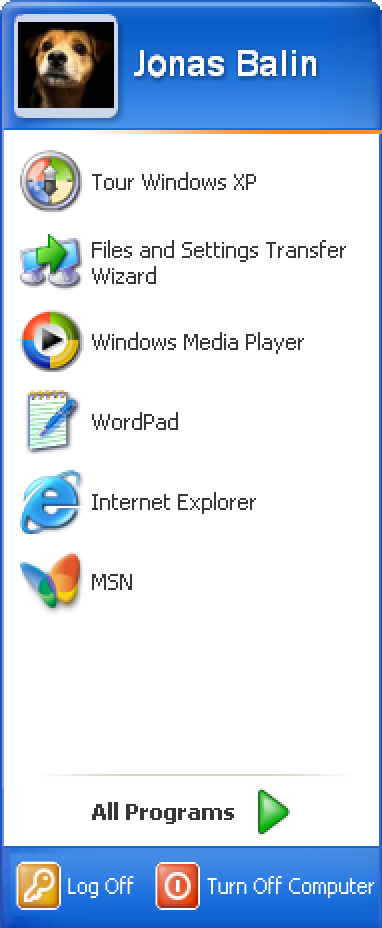
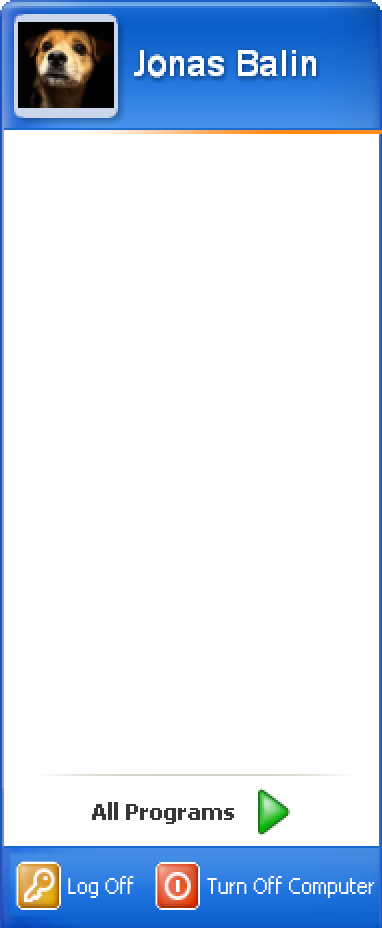
start menu style changes

diff --git a/src/components/taskbar/taskbar.js b/src/components/taskbar/taskbar.js
@@ -10,21 +10,25 @@ import StartMenu from "./startMenu";
 
 export default function Taskbar(props) {
   const [time, setTime] = useState();
-  const [startMenuVisibility, setstartMenuVisibility] = useState({display:"none"})
-  const [startMenuClicked, setStartMenuClicked] = useState(false)
-  const [taskbarApps, setTaskbarApps] = useState(props.openApps)
-  const selectedAppStyle = {filter:"brightness:(200%)"}
-  const deselectedAppStyle = {filter:"brighness:(50%)"}
+  const [startMenuVisibility, setstartMenuVisibility] = useState({
+    display: "none",
+  });
+  const [startMenuClicked, setStartMenuClicked] = useState(false);
+  const [taskbarApps, setTaskbarApps] = useState(props.openApps);
 
   useEffect(() => {
     setTaskbarApps(props.openApps);
-}, [props.openApps])
+  }, [props.openApps]);
 
   // Updating time in taskbar
   useEffect(() => {
     const timer = setInterval(() => {
       // padStart on minutes to add leading 0
-      setTime(new Date().getHours().toString().padStart(2, '0') + ":" + new Date().getMinutes().toString().padStart(2, '0'));
+      setTime(
+        new Date().getHours().toString().padStart(2, "0") +
+          ":" +
+          new Date().getMinutes().toString().padStart(2, "0")
+      );
     }, 1000);
 
     return () => {
@@ -32,14 +36,13 @@ export default function Taskbar(props) {
     };
   }, []);
 
-
   const taskbarAppClick = (app) => {
-    props.summonApplication(app)
-  }
+    props.summonApplication(app);
+  };
 
   // Hides menu if clicked outside of start button & menu
   const hideStartMenu = (e) => {
-    if(e.target.id != "start-menu-button"){
+    if (e.target.id != "start-menu-button") {
       setstartMenuVisibility({ display: "none" });
       setStartMenuClicked(false);
     }
@@ -47,24 +50,26 @@ export default function Taskbar(props) {
 
   const showStartMenu = () => {
     setstartMenuVisibility();
-    setStartMenuClicked(true)
-  }
+    setStartMenuClicked(true);
+  };
 
   const pressedStartButton = () => {
-    if(startMenuClicked){
-      return startButtonPressed
+    if (startMenuClicked) {
+      return startButtonPressed;
     } else {
-      return startButton
+      return startButton;
     }
-
-  }
-  
-
-
+  };
 
   return (
     <div className="taskbar noselect">
-    <StartMenu style={startMenuVisibility} outsideClick={startMenuClicked} hideMenu={hideStartMenu}/>
+      <StartMenu
+        style={startMenuVisibility}
+        outsideClick={startMenuClicked}
+        hideMenu={hideStartMenu}
+        appList={props.appList}
+        launchApplication={props.launchApplication}
+      />
 
       <img className="start-bar" src={taskBar}></img>
       <img
@@ -73,21 +78,27 @@ export default function Taskbar(props) {
         src={pressedStartButton()}
         // Refactor these icon changes. Spaghetti right now.
         onMouseEnter={(e) => (e.currentTarget.src = startButtonHover)}
-        onMouseDownCapture={(e) => showStartMenu()}
+        onMouseDownCapture={() => showStartMenu()}
       ></img>
-      
+
       <div className="taskbar-right">
-        
         <div id="current-time">{time}</div>
         <img className="start-bar-right" src={taskBarRight}></img>
       </div>
 
       <div className="taskbar-middle">
         {taskbarApps.map((app, index) => (
-          <div key={index}
-          className={"taskbar-app"}
-          onClick={(e) => taskbarAppClick(app)}>
-            <TaskbarApps icon={app.icon} title={app.title} id={app.id} isSelected={app.isSelected}/>
+          <div
+            key={index}
+            className={"taskbar-app"}
+            onClick={() => taskbarAppClick(app)}
+          >
+            <TaskbarApps
+              icon={app.icon}
+              title={app.title}
+              id={app.id}
+              isSelected={app.isSelected}
+            />
           </div>
         ))}
       </div>

diff --git a/src/components/taskbar/startMenu.js b/src/components/taskbar/startMenu.js
@@ -26,6 +26,10 @@ export default function StartMenu(props) {
   }
   };
 
+  const handleAppClick = (app) => {
+    props.launchApplication(app)
+  }
+
   return (
     <OutsideAlerter
       enabled={props.outsideClick}
@@ -37,10 +41,17 @@ export default function StartMenu(props) {
             src={require("../../images/desktop-start-menu-compact.png")}
           ></img>
 
-          <div className="start-menu-button start-menu-app a01"></div>
-          <div className="start-menu-button start-menu-app a02"></div>
-          <div className="start-menu-button start-menu-app a03"></div>
-          <div className="start-menu-button start-menu-app a04"></div>
+          {props.appList.map((app, index) => (
+            <div
+              key={app.id}
+              className={"start-menu-button start-menu-app"}
+              style={{ bottom: 482 - 54 * index }}
+              onClick={(event) => handleAppClick(event, app[1], app)}
+            >
+              <img className="start-menu-app-icon" src={app.icon} />
+              <p className="start-menu-app-title">{app.title}</p>
+            </div>
+          ))}
 
           <div className="start-menu-button log-off"></div>
           <div
@@ -60,11 +71,11 @@ export default function StartMenu(props) {
                 backgroundColor: "#5a7edc",
               }}
             >
-              <img src={XPShutDownBackground} style={centeredStyle}/>
+              <img src={XPShutDownBackground} style={centeredStyle} />
             </div>
           )}
         </div>
       }
-    ></OutsideAlerter>
+    />
   );
 }

diff --git a/src/components/desktop.js b/src/components/desktop.js
@@ -59,6 +59,8 @@ export default function Desktop() {
 
   // Function to launch given application within AppWindow component
   const launchApplication = (app) => {
+    console.log("launch")
+    console.log(app)
     return (
       <AppWindow
         passZIndex={passZIndex}
@@ -201,16 +203,17 @@ export default function Desktop() {
           </div>
         ))}
         {openApps.map((app) => (
-          <div key={app.id}
-          // style={{... app.isSelected ? {filter:"grayscale(0%)", zIndex:{zIndex}} : {filter:"grayscale(70%)"}}} Commented out due to creating div height/width, exploring alternatives
-          >{launchApplication(app)}</div>
+          <div key={app.id}>{launchApplication(app)}</div>
         ))}
       </div>
       <div className="desktop-frontlayer">
         <Taskbar
           className="taskbar"
           openApps={openApps}
-          summonApplication={summonApplication}/>
+          appList={initialAppStates}
+          launchApplication={handleClick}
+          summonApplication={summonApplication}
+        />
       </div>
     </div>
   );

diff --git a/src/components/taskbar/startMenu.css b/src/components/taskbar/startMenu.css
@@ -11,11 +11,8 @@
 }
 
 .start-menu-button{
-    position:absolute;
-}
-
-.start-menu-button:hover{
-    background: rgba(223, 228, 248, 0.523);
+    display:flex;
+    align-items: center;
     position:absolute;
 }
 
@@ -34,7 +31,7 @@
     left:10px;
 }
 
-.a01{
+/* .a01{
     bottom:482px;
 }
 
@@ -48,6 +45,22 @@
 
 .a04{
     bottom:316px;
+}
+
+.a04{
+    bottom:316px;
+} */
+
+.start-menu-app-icon{
+    float:left;
+    display:inline;
+    height:48px;
+    width:48px;
+}
+
+.start-menu-app-title{
+    display:inline;
+    margin-left: 6px;
 }
 
 .start-menu-app{
